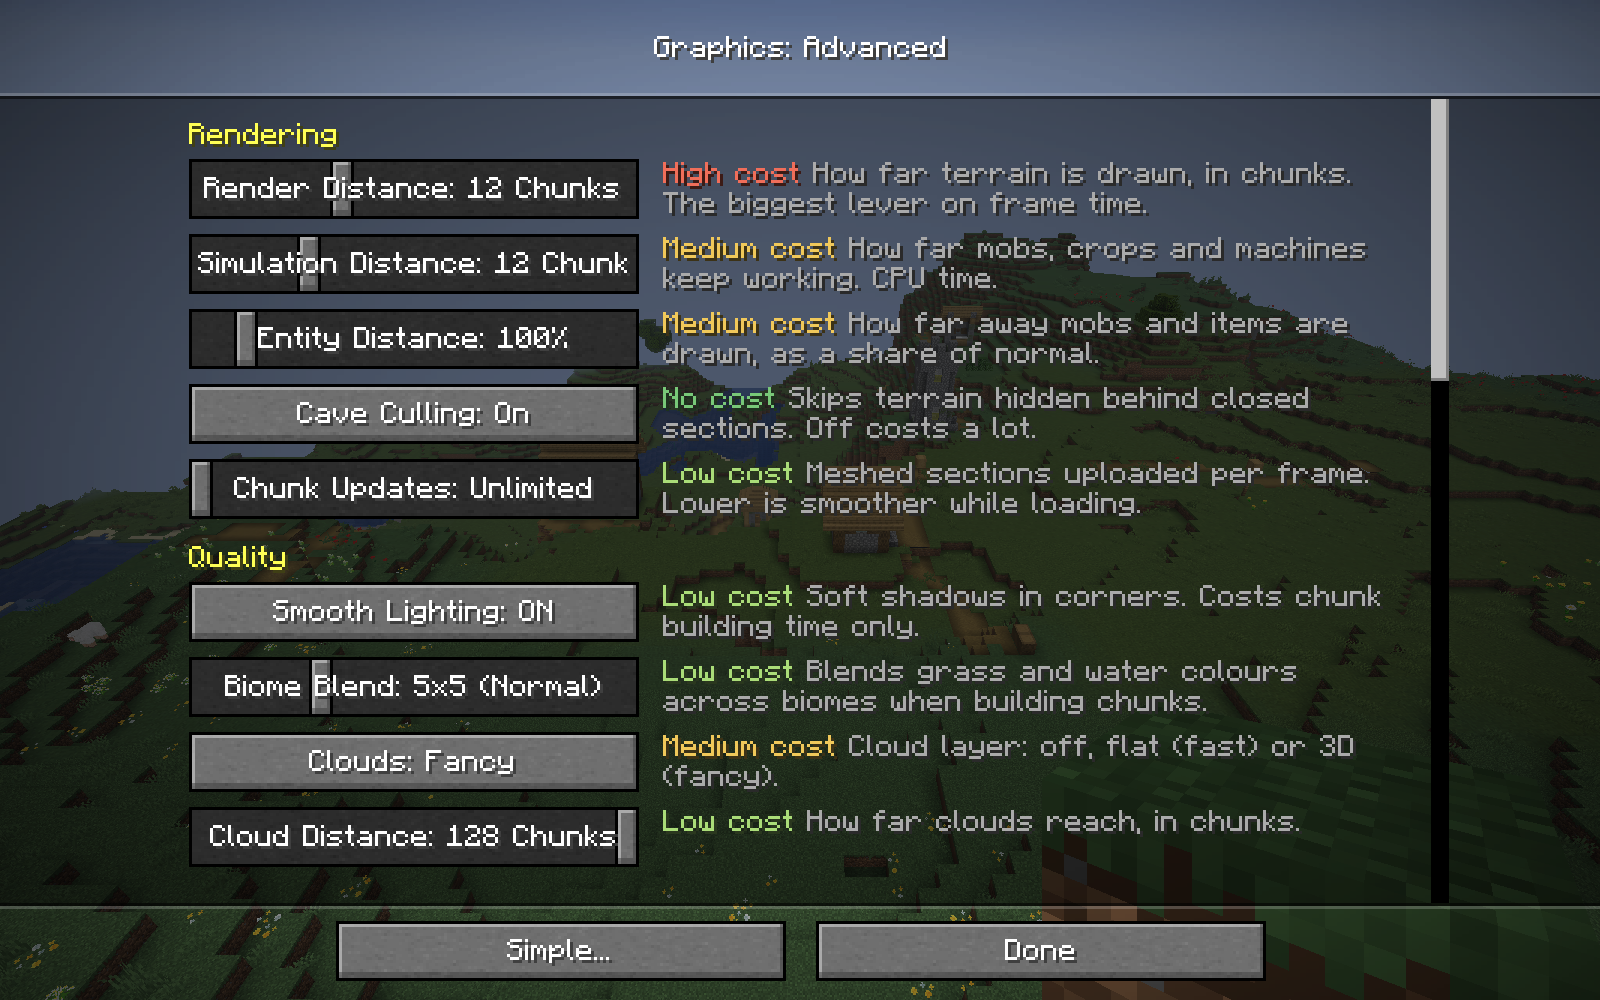
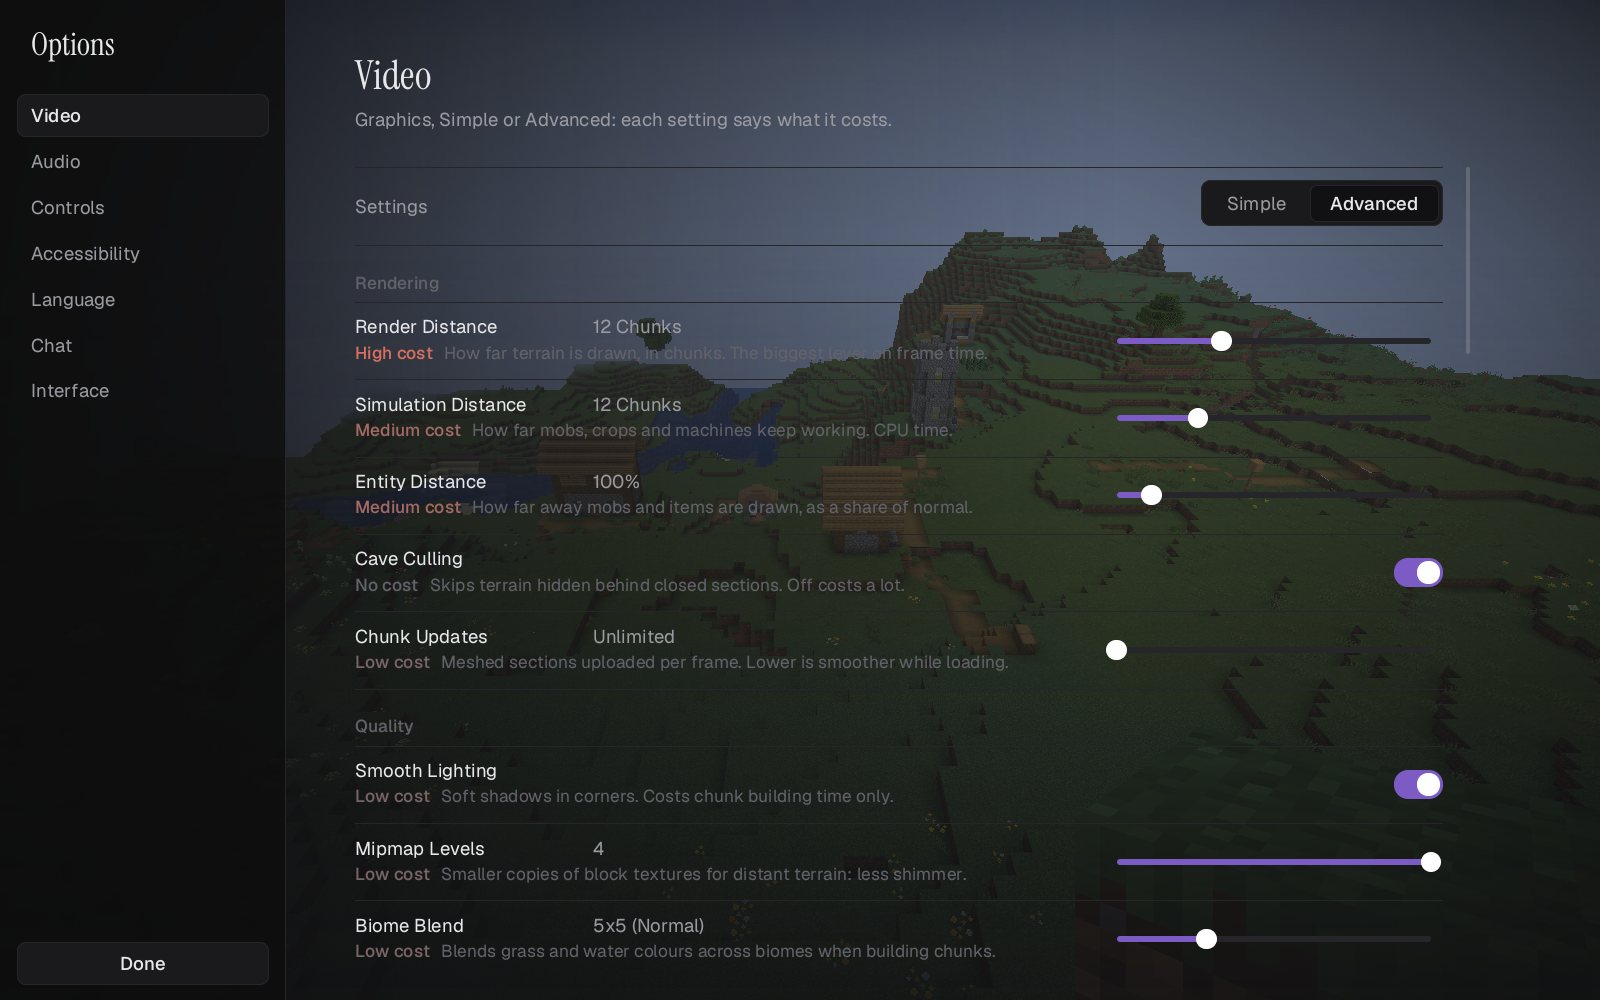
Graphics docs and screenshots for the Video section of the Horizon options

diff --git a/docs/graphics.md b/docs/graphics.md
@@ -2,10 +2,12 @@
 
 ## Settings
 
-**Options → Video Settings** starts with two buttons for Horizon's own screens:
+In the Horizon menu style, the Options screen's **Video** section holds the graphics settings, with a Simple / Advanced switch at the top (remembered between sessions):
 
-- **Horizon Graphics…** (Simple): a preset (Performance, Balanced, Quality, Ultra or Custom), render distance, FOV, max framerate, VSync and GUI scale.
-- **Advanced Graphics…**: every setting, grouped under Rendering, Quality, Display, Performance and Overlay.
+- **Simple**: a preset (Performance, Balanced, Quality, Ultra or Custom), render distance, FOV, max framerate, VSync and GUI scale.
+- **Advanced**: every setting, grouped under Rendering, Quality, Display, Preferences, Performance and Overlay.
+
+In the Classic style, Video Settings starts with two buttons opening the same settings as vanilla-looking screens.
 
 Every row has a one-line description and its cost in frame time (none, low, medium, high), and applies at once, except worker threads, which apply at the next start. A preset sets the quality settings together; changing one of them turns it into Custom. Display preferences (FOV, framerate, VSync, GUI scale, fullscreen, present mode, pacing) leave the preset as it is.
 
@@ -25,7 +27,7 @@ Every row has a one-line description and its cost in frame time (none, low, medi
 
 `options.txt` keeps exactly vanilla's keys and values, so the options harness still compares it with vanilla; Horizon's settings live in `horizon-graphics.txt` beside it. Their defaults render as vanilla does: cave culling on, no upload budgets, sky, fog and weather on, 100% resolution, no FXAA, the present mode following VSync. Frame pacing defaults to Efficient: the limiter sleeps through the last half millisecond where vanilla spins, which changes timing, not pixels.
 
-The screens' layout is in `crates/horizon-client/src/graphics_ui.rs`; every colour, size and widget call is in `graphics_style.rs`, the one place a menu theme replaces.
+Which settings each level shows, their descriptions and costs are in `crates/horizon-client/src/graphics_ui.rs` (`rows`); the Horizon shell draws them in `options_horizon.rs` with `ui_theme::described_row`, and the Classic screens use `graphics_style.rs`.
 
 Not implemented: distant-terrain LOD, anisotropic filtering (wgpu needs linear magnification for it, which blurs close blocks), MSAA (FXAA instead) and exclusive fullscreen (fullscreen is borderless).
 
